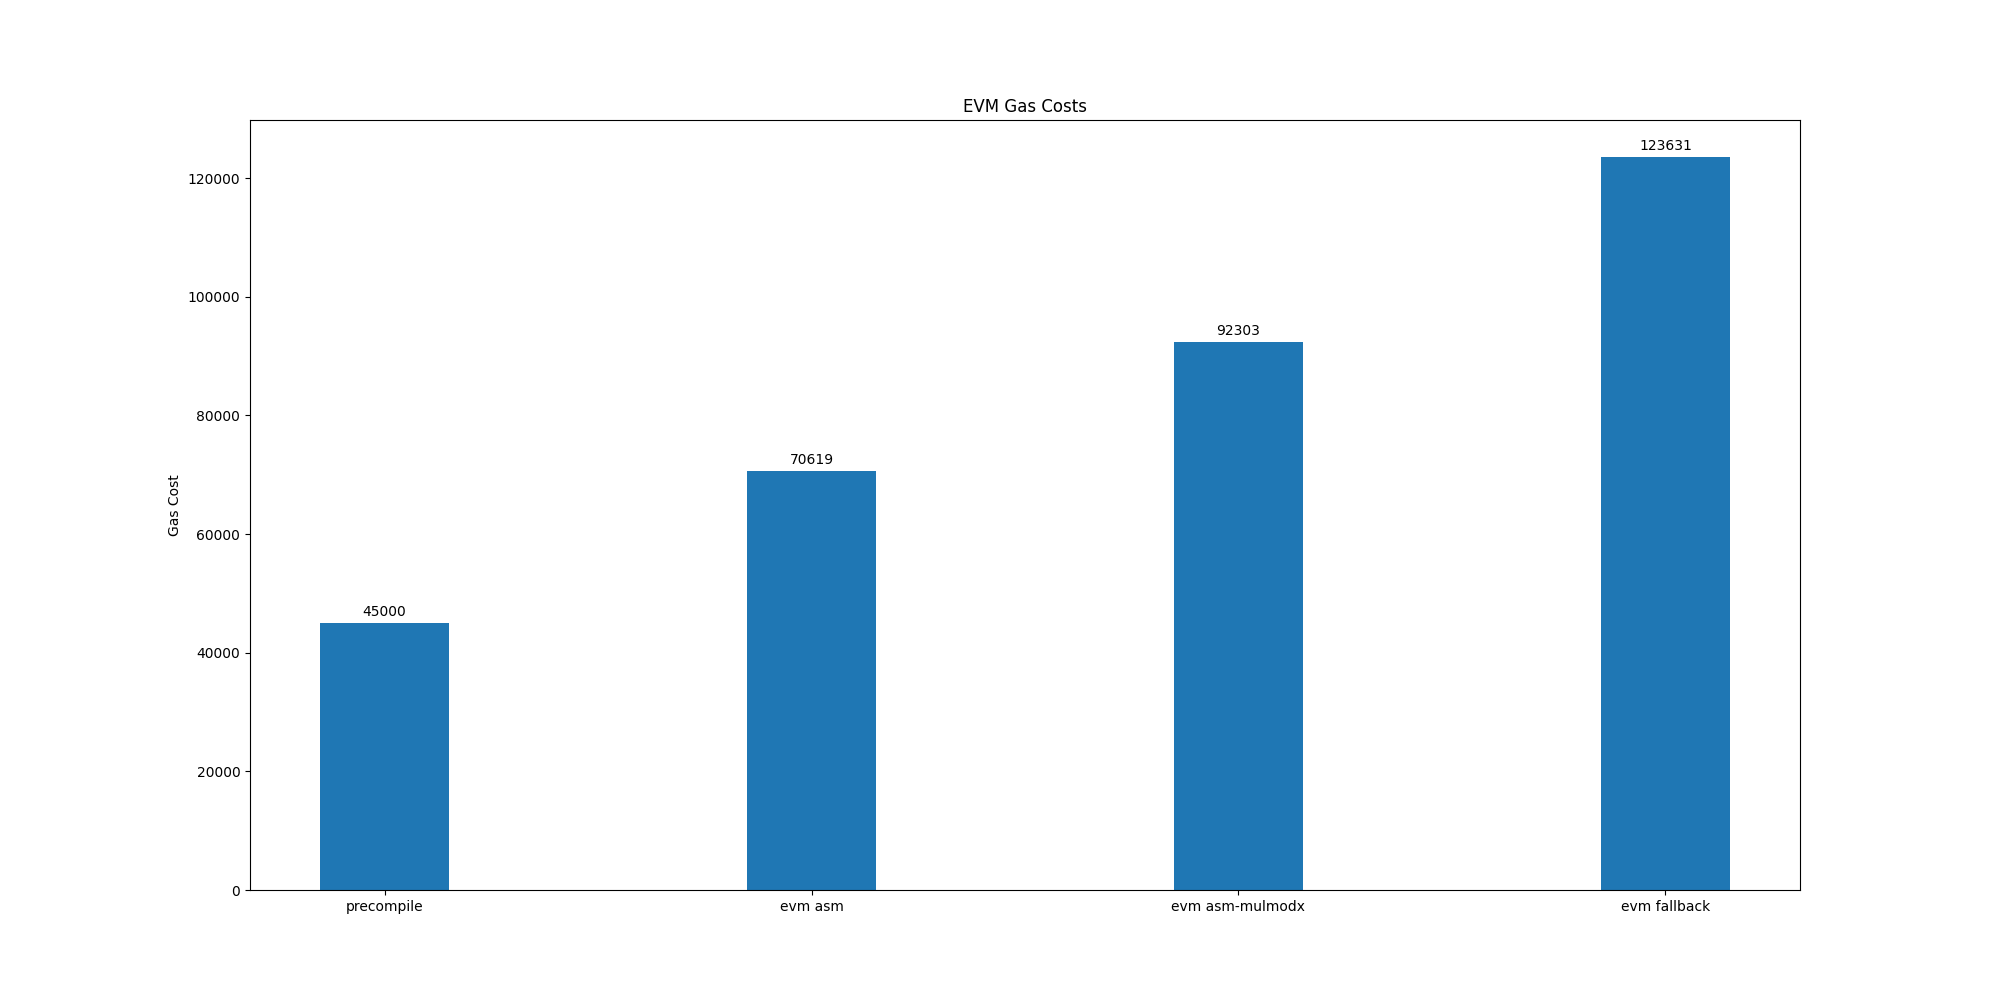
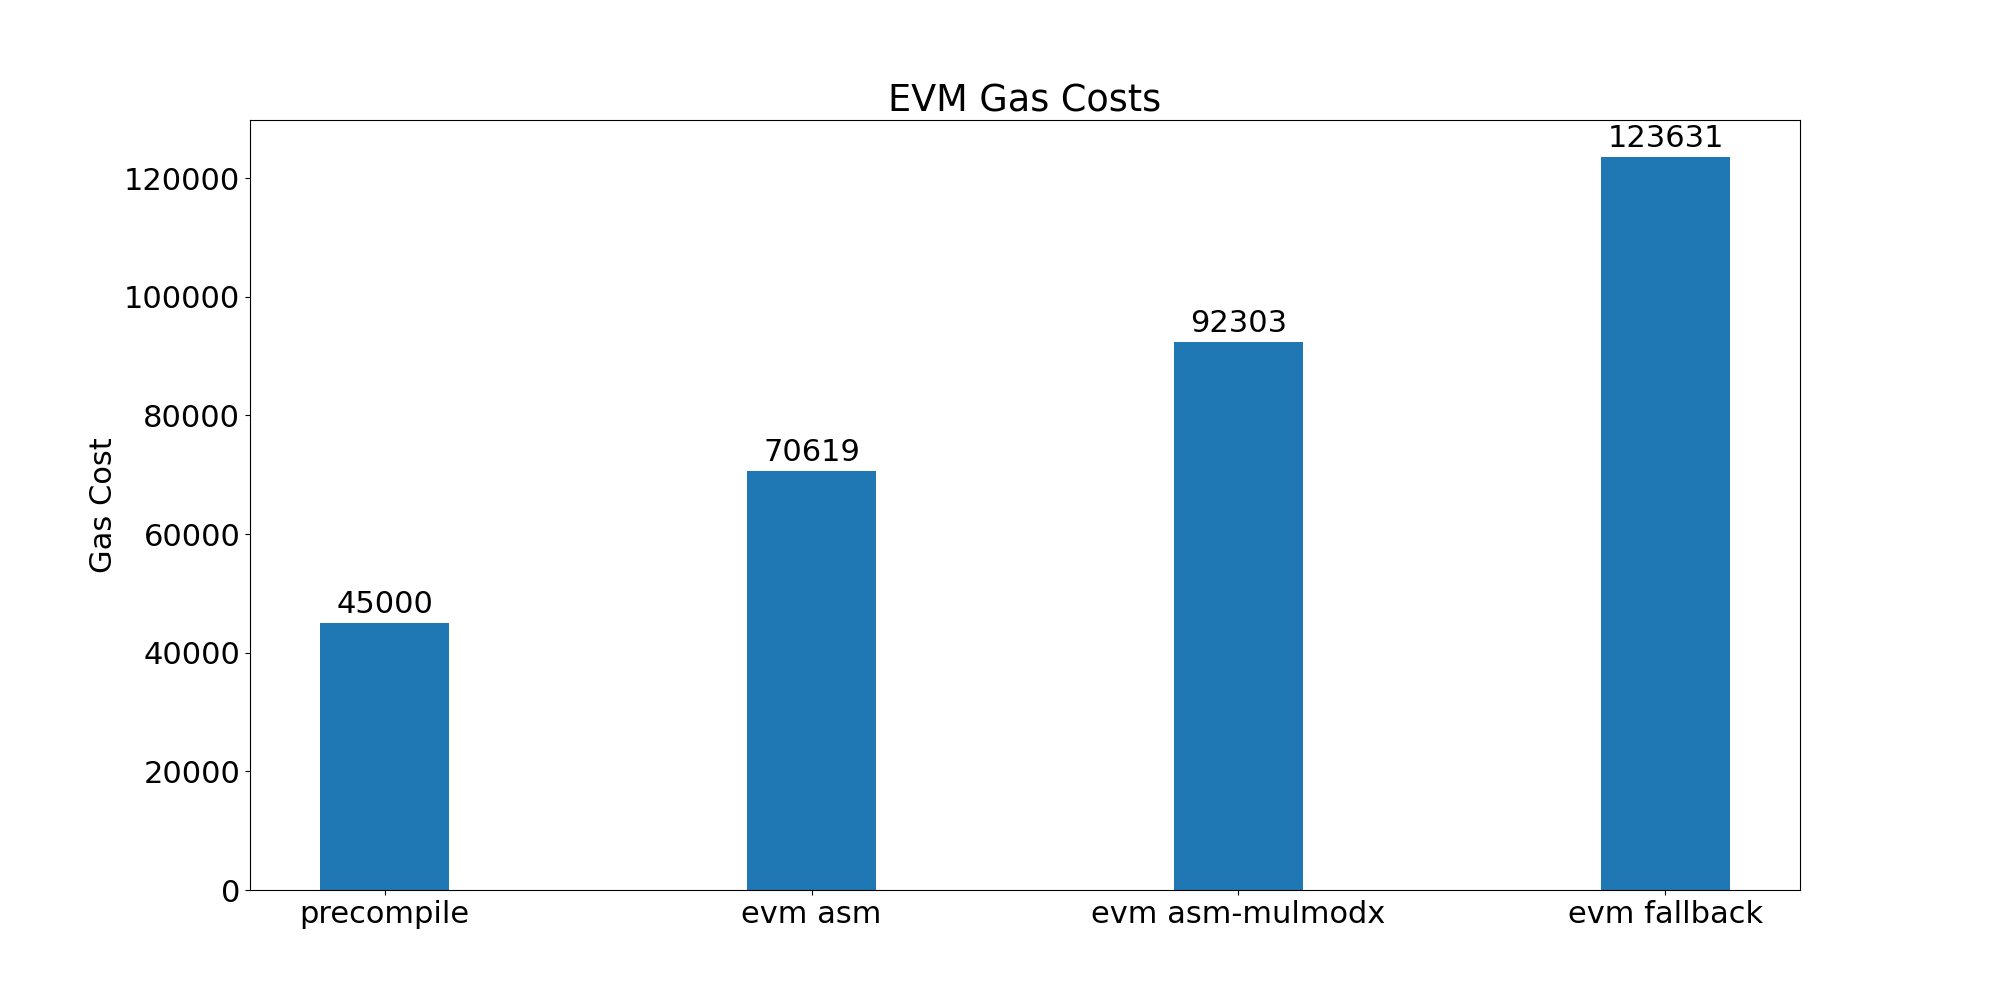
increase chart font size

diff --git a/plot.py b/plot.py
@@ -158,7 +158,7 @@ def scatterplot_ns_data(fname: str, name: str, args):
     #span_y = y_max_all - y_min_all
 
     plt.rcParams["figure.figsize"] = (20, 10)
-    fig, ax = plt.subplots()
+    fig, ax = plt.subplots(layout="tight")
     #plt.ylim(0, y_min_all + int(span_y * 1.2))
     #plt.xlim(0, x_min_all + int(span_x * 1.2))
     #plt.xticks(args[0][1])
@@ -400,6 +400,8 @@ def print_cost_model_table():
         print("|{} - {} bits|{}|{}|{}|".format((limb_count - 1) * 64 + 1, limb_count * 64, cost_mulmodx, cost_addmodx, cost_setmod))
 
 if __name__ == "__main__":
+    matplotlib.rcParams.update({'font.size': 22})
+
     plot_op_benchmarks()
 
     g1mul_benches, g2mul_benches = parse_bls12381_bench()
